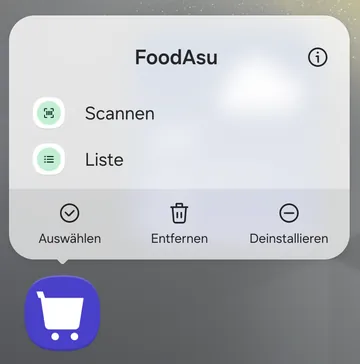
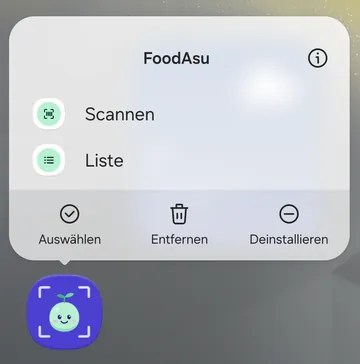
So geht's: Bilder Startseite und Menü am App-Symbol auf dem Stand von 0.20.0 (AP-89)

diff --git a/docs/berichte/AP-89_Zwischenstand.md b/docs/berichte/AP-89_Zwischenstand.md
@@ -1,0 +1,27 @@
+# AP-89: Zwischenstand (Website)
+
+Auftrag: `Material/Projektleitung/AP-89_Merge_Tag_und_zwei_Bilder.md`. Ausführlicher Bericht im App-Repository
+(`docs/berichte/AP-89_Bericht.md`, Zweig `ap-89`).
+
+## Etappe 0: Aufräumen (04.11.2026, 11:23)
+
+`.git/stale-maintenance-lock-ap88pl` (leer) in den Papierkorb; `git status` sauber, `git fsck --no-dangling` ohne
+Meldung.
+
+## Etappe 4: Zwei Bilder in „So geht's“ (04.11.2026, 11:45)
+
+Zweig `ap-89` von `main` `8570fb2`. Nur zwei Bilder getauscht, kein Text der Seiten, kein Design:
+
+| Bild | vorher | jetzt |
+|---|---|---|
+| `start_startseite_01` (Erste Schritte, „Die Startseite“; Leitbild des Kapitels) | Beta-Hinweis, 0.15.3 | Karte „FoodAsu wächst.“, 0.20.0 (2000), Emulator mit den Werten des S24, Haushalt Mia, Jonas, Elif |
+| `start_schnellzugriff_01` (Erste Schritte, „Schneller starten“) | Symbol mit dem Wagen | neues Symbol, Play-Fassung 0.20.0 am S24, Menü „Scannen“, „Liste“ |
+
+`tools/sogehts_fotos.py` hat dabei wie in AP-88 auch `scanner_ean_03` und `scanner_scannen_01` neu kodiert; beide
+sofort zurückgesetzt. In `src/daten/sogehts_fotos.json` geändert: `zeigt` und `aufnahme` der Startseite,
+`aufnahme` des Menüs.
+
+Prüfungen: `npm run build` (976 Dateien, keine Preisaussage), `npm run pruefen` (`tools/pruefe_seiten.mjs`): bestanden;
+`Material/texte_pruefen.py`: bestanden (Bildbeschreibung geändert). Bau gegen live: 970 von 976 gleich, anders nur die
+vier Bilddateien und `/so-gehts/`, `/so-gehts/erste-schritte/` (Bildbeschreibung). Vorschau alt neben neu (Handy 390,
+Laptop 1366): `Material/Projektleitung/AP-89_vorschau/`, Konsole ohne Fehler, beide Bilder 200.
